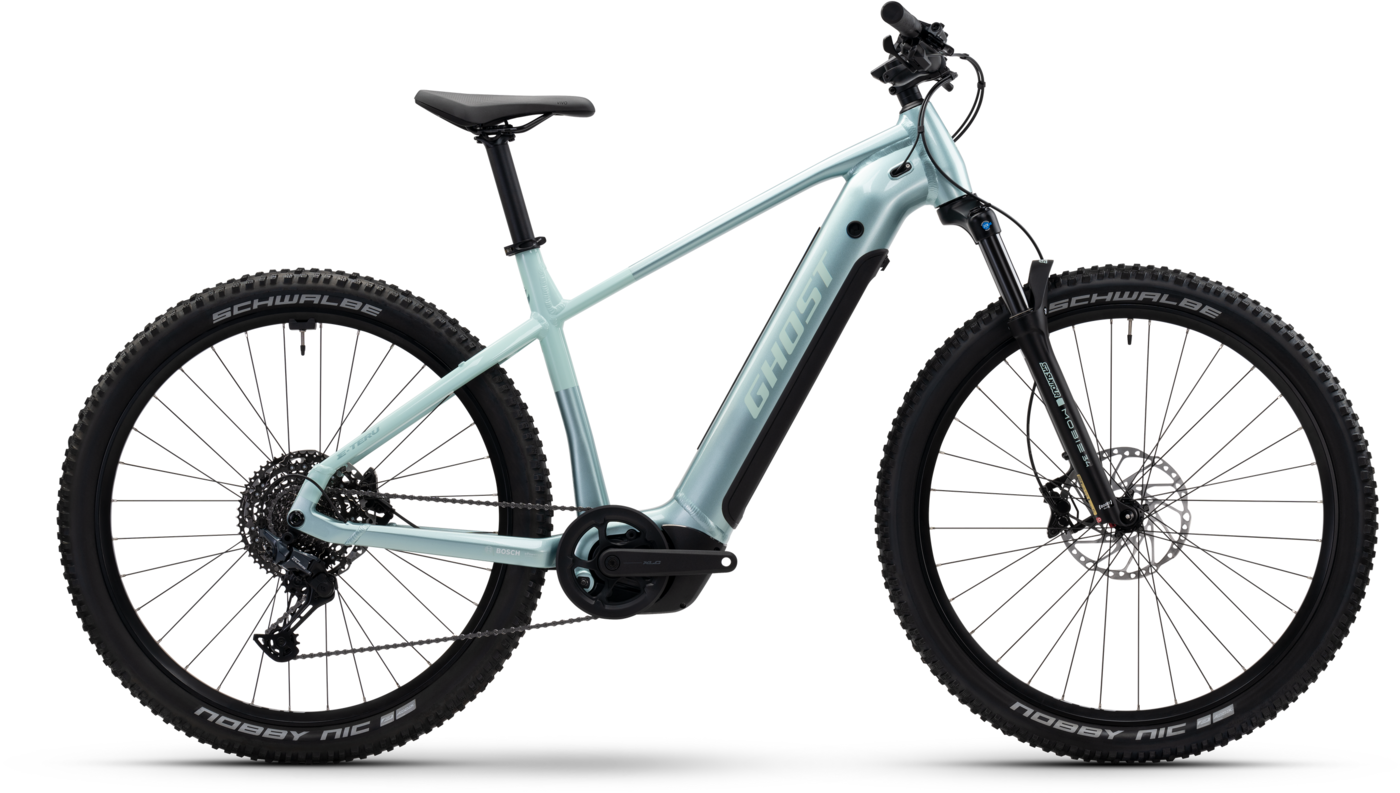
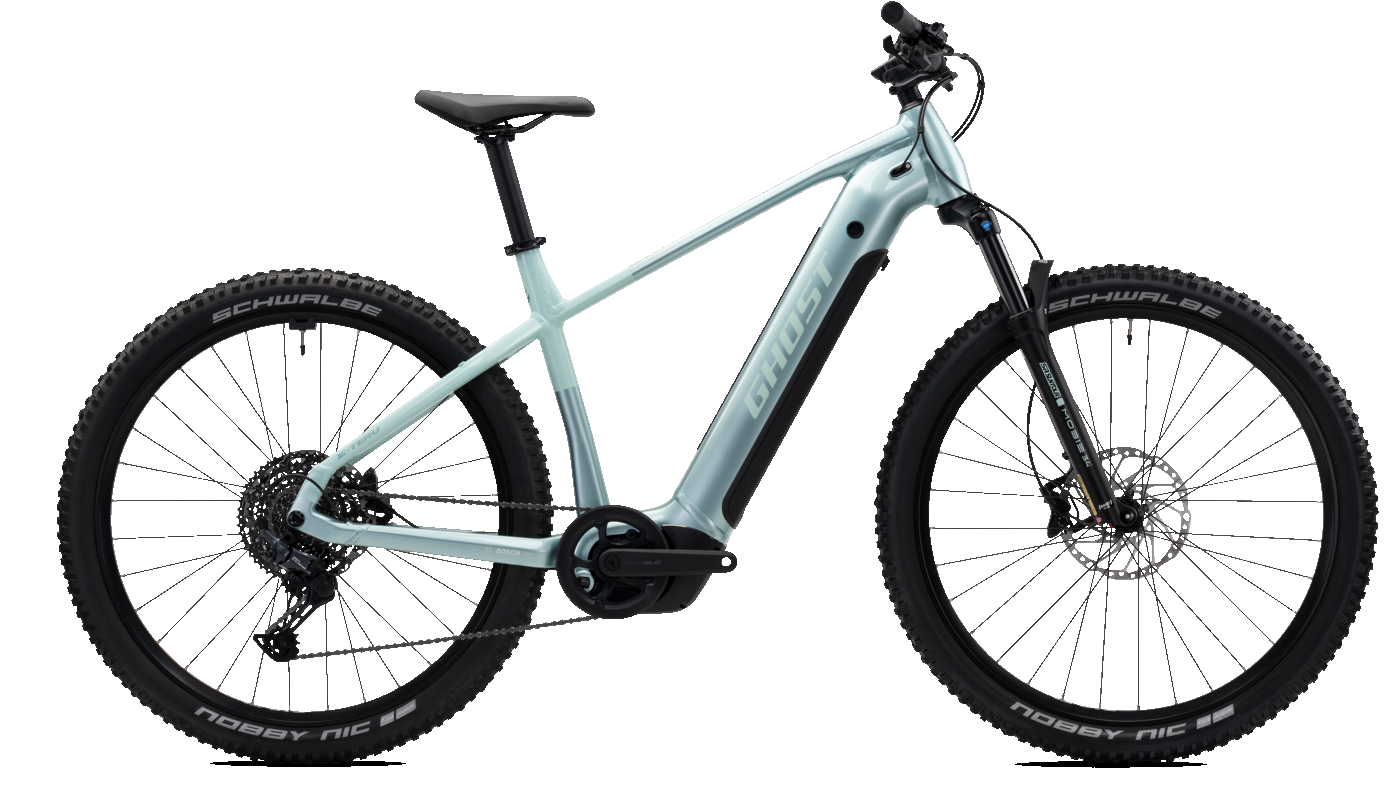
style: rework hero band layout and clean up bike cutouts
- Move "BIKE RENTAL" to top-left, spread letter-by-letter across the
  full width via flex justify-content:space-between (text-align-last
  can't justify a single line at the letter level, only word gaps)
- Move the BikeBox logo out of the header into the footer, in its own
  column with a divider rule, restructuring the footer grid to
  auto/1fr/auto
- Size bikes up, push them toward the bottom of the hero photo, thin
  out the sticker outline, and swap the oversized glow shadow for a
  small simple one
- Strip the soft baked-in studio floor shadow from both product PNGs
  via alpha threshold — it was getting traced by the outline filter
  into a distracting white halo under the wheels
- Add a full-width divider + "multiple day rentals" note under the
  second pricing table
- Repeatedly cut the header's darkening gradient down (still tuning)

diff --git a/index.html b/index.html
@@ -17,18 +17,8 @@
   </svg>
 
   <header class="header">
-    <div class="header-top">
-      <svg class="logomark" viewBox="0 0 489 489" role="img" aria-label="BikeBox logo">
-        <path class="outline" d="M 255.5,1.5 C 322.445,39.9394 389.279,78.606 456,117.5C 456.667,199.833 456.667,282.167 456,364.5C 385.871,405.814 315.371,446.481 244.5,486.5C 172.996,446.496 101.829,405.829 31,364.5C 30.3333,282.167 30.3333,199.833 31,117.5C 92.2959,82.3664 153.463,47.033 214.5,11.5C 215.333,88.4978 215.833,165.498 216,242.5C 216.519,251.194 219.519,258.861 225,265.5C 231.665,270.335 238.665,274.668 246,278.5C 246.5,297.497 246.667,316.497 246.5,335.5C 207.873,331.336 180.706,311.669 165,276.5C 162.57,269.684 160.903,262.684 160,255.5C 159.667,207.167 159.333,158.833 159,110.5C 135.407,123.768 112.074,137.434 89,151.5C 88.6667,152.833 88.3333,154.167 88,155.5C 87.3333,213.833 87.3333,272.167 88,330.5C 139.573,360.952 191.573,390.619 244,419.5C 246.992,418.755 249.826,417.588 252.5,416C 300.67,387.747 349.003,359.747 397.5,332C 398.126,331.25 398.626,330.416 399,329.5C 399.667,270.833 399.667,212.167 399,153.5C 398.226,151.061 396.726,149.227 394.5,148C 348.252,121.626 302.085,95.1264 256,68.5C 255.5,46.1692 255.333,23.8358 255.5,1.5 Z"/>
-        <path fill="#791412" d="M 255.5,150.5 C 264.856,149.871 273.856,151.371 282.5,155C 293.409,159.942 303.409,166.108 312.5,173.5C 300.409,187.094 287.742,200.26 274.5,213C 272.833,213.667 271.167,213.667 269.5,213C 265.046,210.689 260.546,208.522 256,206.5C 255.5,187.836 255.333,169.17 255.5,150.5 Z"/>
-        <path fill="#b21820" d="M 318.5,180.5 C 322.099,182.263 324.932,184.93 327,188.5C 336.796,203.22 342.629,219.386 344.5,237C 325.167,237.667 305.833,237.667 286.5,237C 284.914,231.91 282.747,227.077 280,222.5C 279.333,221.5 279.333,220.5 280,219.5C 293.035,206.632 305.869,193.632 318.5,180.5 Z"/>
-        <path fill="#e40e23" d="M 286.5,246.5 C 305.5,246.5 324.5,246.5 343.5,246.5C 342.626,268.898 334.626,288.232 319.5,304.5C 306.872,291.039 293.705,278.039 280,265.5C 281.549,259.044 283.716,252.71 286.5,246.5 Z"/>
-        <path class="outline" d="M 269.5,271.5 C 270.873,271.343 272.207,271.51 273.5,272C 286.5,285 299.5,298 312.5,311C 296.549,325.936 277.549,333.769 255.5,334.5C 255.333,315.83 255.5,297.164 256,278.5C 260.329,275.68 264.829,273.346 269.5,271.5 Z"/>
-      </svg>
-      <p class="brand-name">bikebox</p>
-    </div>
     <div>
-      <h1 class="wordmark">Bike Rental</h1>
+      <h1 class="wordmark" aria-label="Bike Rental"><span aria-hidden="true">B</span><span aria-hidden="true">I</span><span aria-hidden="true">K</span><span aria-hidden="true">E</span><span aria-hidden="true" class="sp"></span><span aria-hidden="true">R</span><span aria-hidden="true">E</span><span aria-hidden="true">N</span><span aria-hidden="true">T</span><span aria-hidden="true">A</span><span aria-hidden="true">L</span></h1>
     </div>
     <div class="hero-bikes">
       <img src="./assets/images/bike-ghost-e-teru.png" alt="Ghost E-Teru Advanced"/>
@@ -101,11 +91,23 @@
     <div class="footnotes">
       <p>* Half day = 4 hours, max until closing time</p>
       <p>** Full day = from pick-up until closing time</p>
+      <hr class="footnote-rule"/>
+      <p class="footnote-full">Multiple day rentals possible, ask us for pricing</p>
     </div>
 
   </section>
 
   <footer class="footer">
+    <div class="footer-brand">
+      <svg class="logomark" viewBox="0 0 489 489" role="img" aria-label="BikeBox logo">
+        <path class="outline" d="M 255.5,1.5 C 322.445,39.9394 389.279,78.606 456,117.5C 456.667,199.833 456.667,282.167 456,364.5C 385.871,405.814 315.371,446.481 244.5,486.5C 172.996,446.496 101.829,405.829 31,364.5C 30.3333,282.167 30.3333,199.833 31,117.5C 92.2959,82.3664 153.463,47.033 214.5,11.5C 215.333,88.4978 215.833,165.498 216,242.5C 216.519,251.194 219.519,258.861 225,265.5C 231.665,270.335 238.665,274.668 246,278.5C 246.5,297.497 246.667,316.497 246.5,335.5C 207.873,331.336 180.706,311.669 165,276.5C 162.57,269.684 160.903,262.684 160,255.5C 159.667,207.167 159.333,158.833 159,110.5C 135.407,123.768 112.074,137.434 89,151.5C 88.6667,152.833 88.3333,154.167 88,155.5C 87.3333,213.833 87.3333,272.167 88,330.5C 139.573,360.952 191.573,390.619 244,419.5C 246.992,418.755 249.826,417.588 252.5,416C 300.67,387.747 349.003,359.747 397.5,332C 398.126,331.25 398.626,330.416 399,329.5C 399.667,270.833 399.667,212.167 399,153.5C 398.226,151.061 396.726,149.227 394.5,148C 348.252,121.626 302.085,95.1264 256,68.5C 255.5,46.1692 255.333,23.8358 255.5,1.5 Z"/>
+        <path fill="#791412" d="M 255.5,150.5 C 264.856,149.871 273.856,151.371 282.5,155C 293.409,159.942 303.409,166.108 312.5,173.5C 300.409,187.094 287.742,200.26 274.5,213C 272.833,213.667 271.167,213.667 269.5,213C 265.046,210.689 260.546,208.522 256,206.5C 255.5,187.836 255.333,169.17 255.5,150.5 Z"/>
+        <path fill="#b21820" d="M 318.5,180.5 C 322.099,182.263 324.932,184.93 327,188.5C 336.796,203.22 342.629,219.386 344.5,237C 325.167,237.667 305.833,237.667 286.5,237C 284.914,231.91 282.747,227.077 280,222.5C 279.333,221.5 279.333,220.5 280,219.5C 293.035,206.632 305.869,193.632 318.5,180.5 Z"/>
+        <path fill="#e40e23" d="M 286.5,246.5 C 305.5,246.5 324.5,246.5 343.5,246.5C 342.626,268.898 334.626,288.232 319.5,304.5C 306.872,291.039 293.705,278.039 280,265.5C 281.549,259.044 283.716,252.71 286.5,246.5 Z"/>
+        <path class="outline" d="M 269.5,271.5 C 270.873,271.343 272.207,271.51 273.5,272C 286.5,285 299.5,298 312.5,311C 296.549,325.936 277.549,333.769 255.5,334.5C 255.333,315.83 255.5,297.164 256,278.5C 260.329,275.68 264.829,273.346 269.5,271.5 Z"/>
+      </svg>
+      <p class="brand-name">bikebox</p>
+    </div>
     <div>
       <p class="contact-label">Visit &amp; book</p>
       <p class="contact-line">Dorfstrasse 179, 3818 Grindelwald</p>

diff --git a/styles.css b/styles.css
@@ -19,6 +19,7 @@
   --card:#FFFFFF;
   --band-bg:#14170F;
   --band-ink:#F1F3ED;
+  --sticker-outline:#FFFFFF;
 }
 
 @media (prefers-color-scheme: dark){
@@ -88,24 +89,21 @@ body{
   position:relative;
   z-index:1;
   min-height:54cqi;
-  display:flex;
-  flex-direction:column;
-  justify-content:space-between;
   background:
-    linear-gradient(180deg, rgba(14,17,11,.28) 0%, rgba(14,17,11,.42) 45%, rgba(14,17,11,.88) 100%),
+    linear-gradient(180deg, rgba(14,17,11,0) 0%, rgba(14,17,11,.02) 45%, rgba(14,17,11,.12) 100%),
     url('./assets/images/hero-bachalpsee.jpg') center 62% / cover no-repeat;
   color:var(--band-ink);
   padding:3cqi 7cqi 2.6cqi;
   flex:0 0 auto;
 }
-.header-top{
+.footer-brand{
   display:flex;
   align-items:center;
-  gap:.6em;
+  gap:.5em;
 }
 .logomark{
-  width:clamp(16px, 5.4cqi, 36px);
-  height:clamp(16px, 5.4cqi, 36px);
+  width:clamp(16px, 4.6cqi, 30px);
+  height:clamp(16px, 4.6cqi, 30px);
   flex:0 0 auto;
   filter:drop-shadow(0 1px 3px rgba(0,0,0,.4));
 }
@@ -114,25 +112,27 @@ body{
   font-family:'Baloo 2', sans-serif;
   font-weight:700;
   letter-spacing:.01em;
-  font-size:clamp(15px, 4.6cqi, 29px);
+  font-size:clamp(13px, 3.6cqi, 22px);
   color:var(--band-ink);
   margin:0;
 }
 .wordmark{
   margin:0;
+  width:100%;
   font-family:'Oswald', sans-serif;
   font-weight:700;
   text-transform:uppercase;
   line-height:.94;
   font-size:clamp(32px, 13.5cqi, 90px);
-  letter-spacing:.005em;
-  text-wrap:balance;
   text-shadow:0 2px 18px rgba(0,0,0,.35);
+  display:flex;
+  justify-content:space-between;
 }
+.wordmark .sp{width:.28em;}
 .hero-bikes{
   position:absolute;
   left:50%;
-  top:47%;
+  top:65%;
   transform:translate(-50%, -50%);
   display:flex;
   align-items:center;
@@ -142,11 +142,25 @@ body{
   z-index:1;
 }
 .hero-bikes img{
-  width:clamp(150px, 32cqi, 360px);
+  width:clamp(180px, 40cqi, 430px);
   height:auto;
   display:block;
-  filter:drop-shadow(0 12px 26px rgba(0,0,0,.5));
+  filter:
+    drop-shadow(1.8px 0 0 var(--sticker-outline))
+    drop-shadow(1.56px 0.9px 0 var(--sticker-outline))
+    drop-shadow(0.9px 1.56px 0 var(--sticker-outline))
+    drop-shadow(0 1.8px 0 var(--sticker-outline))
+    drop-shadow(-0.9px 1.56px 0 var(--sticker-outline))
+    drop-shadow(-1.56px 0.9px 0 var(--sticker-outline))
+    drop-shadow(-1.8px 0 0 var(--sticker-outline))
+    drop-shadow(-1.56px -0.9px 0 var(--sticker-outline))
+    drop-shadow(-0.9px -1.56px 0 var(--sticker-outline))
+    drop-shadow(0 -1.8px 0 var(--sticker-outline))
+    drop-shadow(0.9px -1.56px 0 var(--sticker-outline))
+    drop-shadow(1.56px -0.9px 0 var(--sticker-outline))
+    drop-shadow(3px 4px 2px rgba(0,0,0,.4));
 }
+.hero-bikes img:nth-child(2){transform:scaleX(-1);}
 /* ---------- pricing ---------- */
 .pricing{
   position:relative; z-index:1;
@@ -260,6 +274,14 @@ table.matrix td span{
   color:var(--muted);
 }
 .footnotes p{margin:0;}
+.footnote-rule{
+  flex-basis:100%;
+  width:100%;
+  margin:.9em 0 .7em;
+  border:none;
+  border-top:1px solid var(--line);
+}
+.footnotes p.footnote-full{flex-basis:100%;margin-top:0;}
 
 /* ---------- footer ---------- */
 .footer{
@@ -269,9 +291,14 @@ table.matrix td span{
   color:var(--band-ink);
   padding:2.6cqi 7cqi;
   display:grid;
-  grid-template-columns:1fr auto;
-  gap:2cqi;
+  grid-template-columns:auto 1fr auto;
+  gap:2.6cqi;
   align-items:center;
+}
+.footer-brand{
+  padding-right:2.6cqi;
+  border-right:1px solid rgba(241,243,237,.22);
+  align-self:stretch;
 }
 .contact-label{
   font-family:'IBM Plex Mono', monospace;
